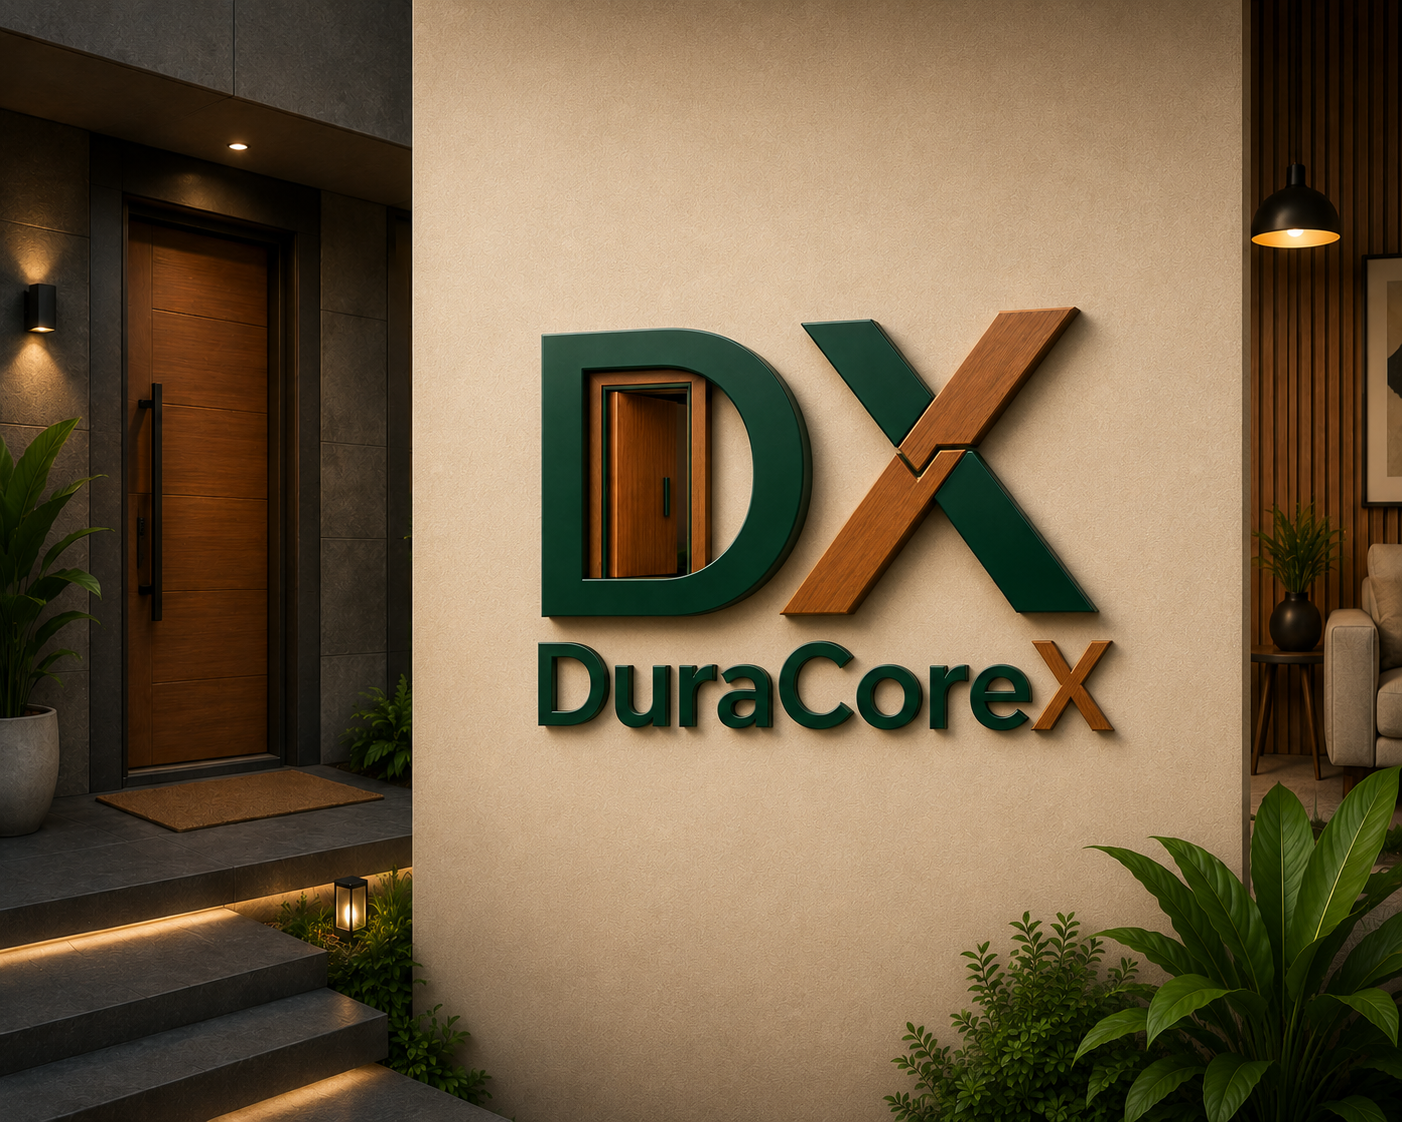
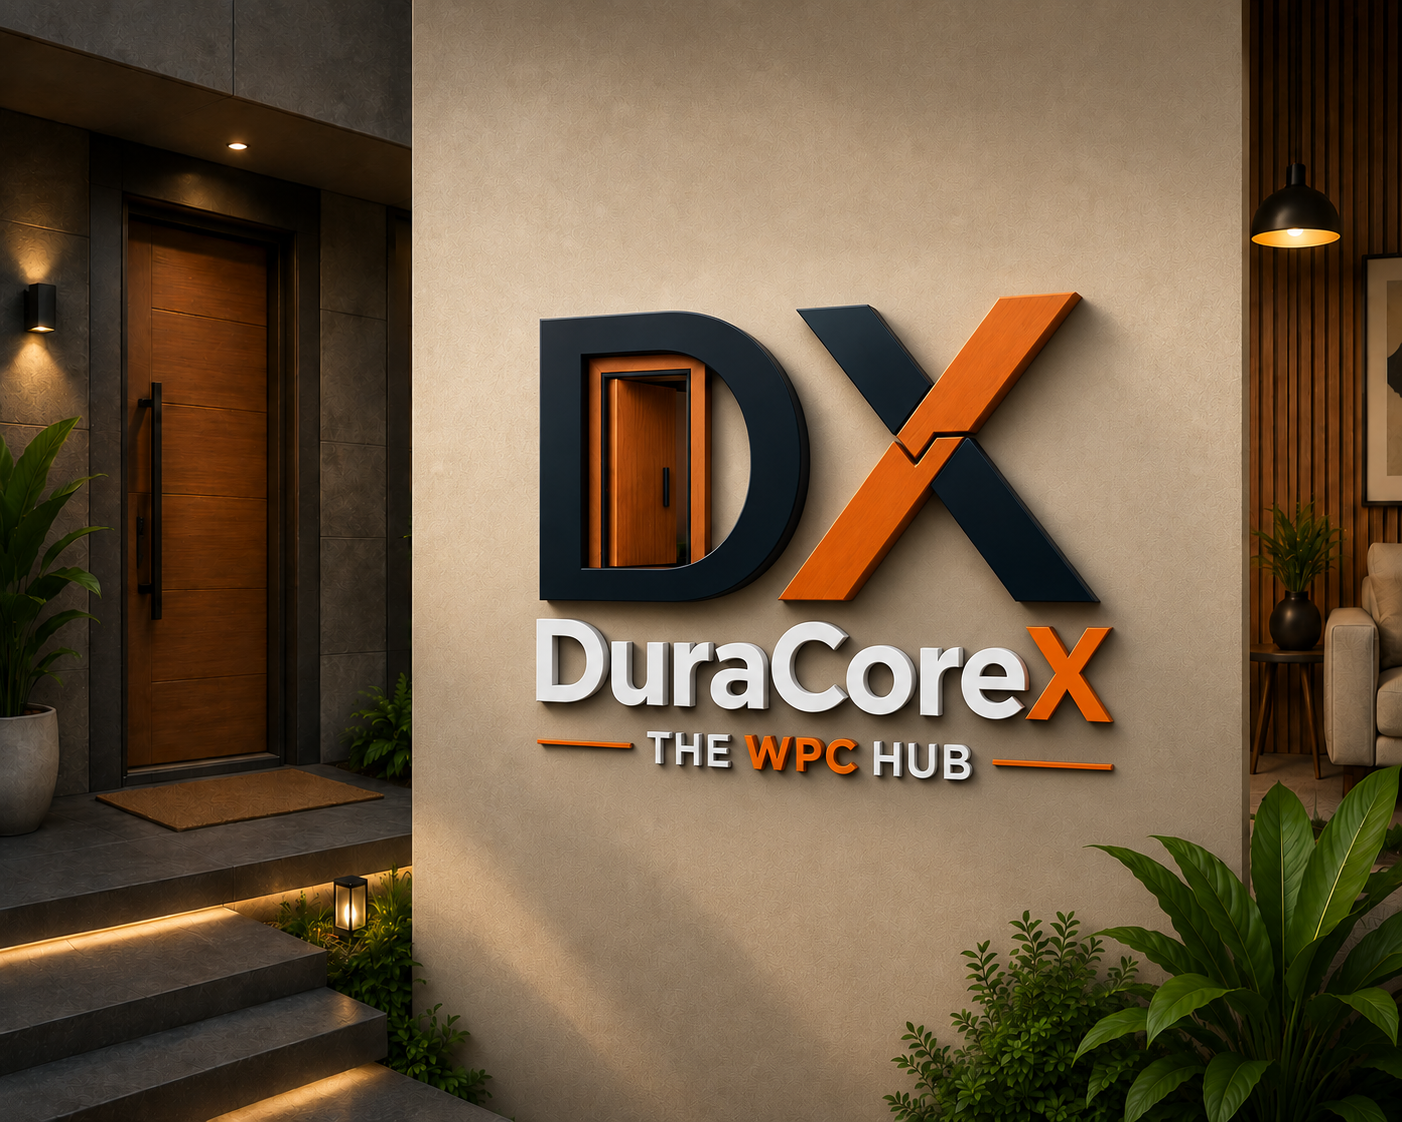
latest one

diff --git a/DuraCoreX.jsx b/DuraCoreX.jsx
@@ -172,9 +172,9 @@ function Navbar() {
         left: 0,
         right: 0,
         zIndex: 1000,
-        background: scrolled ? "rgba(255,255,255,0.98)" : "rgba(255,255,255,0.92)",
+        background: scrolled ? "rgba(18,22,18,0.97)" : "rgba(18,22,18,0.88)",
         backdropFilter: "blur(14px)",
-        boxShadow: scrolled ? "0 2px 16px rgba(0,0,0,0.1)" : "0 1px 8px rgba(0,0,0,0.08)",
+        boxShadow: scrolled ? "0 2px 16px rgba(0,0,0,0.4)" : "0 1px 8px rgba(0,0,0,0.2)",
         transition: "all 0.35s",
         padding: "0 5%",
       }}>
@@ -182,8 +182,14 @@ function Navbar() {
           <div style={{ display: "flex", alignItems: "center", gap: 8, cursor: "pointer" }} onClick={() => scrollTo("home")}>
             <DXLogo size={34} />
             <div>
-              <div style={{ color: "#1a4d2e", fontWeight: 800, fontSize: 16, letterSpacing: 0.5, lineHeight: 1 }}>DuraCoreX</div>
-              <div style={{ color: "#8B5E3C", fontSize: 8, letterSpacing: 1.5, textTransform: "uppercase" }}>The WPC Hub</div>
+              <div style={{ fontWeight: 800, fontSize: 16, letterSpacing: 0.5, lineHeight: 1.1 }}>
+                <span style={{ color: "#ffffff" }}>DuraCore</span><span style={{ color: "#E8720C" }}>X</span>
+              </div>
+              <div style={{ fontSize: 8, letterSpacing: 2, textTransform: "uppercase", color: "rgba(255,255,255,0.75)", display: "flex", alignItems: "center", gap: 4 }}>
+                <span style={{ color: "#E8720C", fontSize: 9 }}>—</span>
+                <span>The <span style={{ color: "#E8720C" }}>WPC</span> HUB</span>
+                <span style={{ color: "#E8720C", fontSize: 9 }}>—</span>
+              </div>
             </div>
           </div>
 
@@ -191,9 +197,9 @@ function Navbar() {
           <div style={{ display: "flex", gap: 28, alignItems: "center" }} className="dx-desktop-nav">
             {NAV_LINKS_SIMPLE.map((link) => (
               <button key={link} onClick={() => { setMenuOpen(false); scrollTo(link); }}
-                style={{ background: "none", border: "none", color: "#1a3a24", fontWeight: 600, fontSize: 13, cursor: "pointer", letterSpacing: 0.5, padding: "4px 0", borderBottom: "2px solid transparent", transition: "all 0.2s" }}
-                onMouseEnter={(e) => { e.target.style.borderBottomColor = "#8B5E3C"; e.target.style.color = "#1a4d2e"; }}
-                onMouseLeave={(e) => { e.target.style.borderBottomColor = "transparent"; e.target.style.color = "#1a3a24"; }}>
+                style={{ background: "none", border: "none", color: "rgba(255,255,255,0.85)", fontWeight: 600, fontSize: 13, cursor: "pointer", letterSpacing: 0.5, padding: "4px 0", borderBottom: "2px solid transparent", transition: "all 0.2s" }}
+                onMouseEnter={(e) => { e.target.style.borderBottomColor = "#E8720C"; e.target.style.color = "#fff"; }}
+                onMouseLeave={(e) => { e.target.style.borderBottomColor = "transparent"; e.target.style.color = "rgba(255,255,255,0.85)"; }}>
                 {link}
               </button>
             ))}
@@ -203,7 +209,7 @@ function Navbar() {
           <button onClick={() => setMenuOpen(!menuOpen)}
             style={{ background: "none", border: "none", cursor: "pointer", display: "none", flexDirection: "column", gap: 5 }}
             className="dx-hamburger">
-            {[0,1,2].map(i => <div key={i} style={{ width: 24, height: 2, background: "#1a4d2e", borderRadius: 2 }} />)}
+            {[0,1,2].map(i => <div key={i} style={{ width: 24, height: 2, background: "#ffffff", borderRadius: 2 }} />)}
           </button>
         </div>
 
@@ -289,8 +295,8 @@ function Hero() {
         style={{
           position: "absolute", top: 0, left: 0,
           width: "100%", height: "100%",
-          objectFit: "contain",
-          objectPosition: "right center",
+          objectFit: "cover",
+          objectPosition: "center center",
           pointerEvents: "none", userSelect: "none",
         }}
       />
@@ -349,56 +355,45 @@ function Hero() {
           </div>
         </div>
 
-        {/* Right — feature bullets */}
-        <div className="hero-card" style={{ display: "flex", justifyContent: "flex-end" }}>
-          <div style={{ borderRadius: 20, padding: 2, position: "relative" }}>
-          <div style={{
-            background: "transparent",
-            backdropFilter: "none",
-            WebkitBackdropFilter: "none",
-            borderRadius: 17,
-            padding: "28px 30px",
-            boxShadow: "none",
-            border: "1px solid rgba(255,255,255,0.3)",
-            position: "relative", zIndex: 1,
-          }}>
-            {/* Header */}
-            <div style={{ marginBottom: 18 }}>
-              <div style={{ color: "#8B5E3C", fontSize: 9, fontWeight: 700, letterSpacing: 2.5, textTransform: "uppercase", marginBottom: 4 }}>Build with Floresta WPC</div>
-              <div style={{ width: 32, height: 2, background: "linear-gradient(to right, #8B5E3C, transparent)", borderRadius: 2 }} />
-            </div>
-
-            {/* Bullets */}
+        {/* Right — feature icons list */}
+        <div className="hero-card" style={{ display: "flex", justifyContent: "flex-end", alignItems: "center" }}>
+          <div style={{ display: "flex", flexDirection: "column", gap: 9 }}>
             {[
-              "100% Genuine — 'Actual' WPC",
-              "European Technology",
-              "100% Waterproof & Moisture Proof",
-              "Termite & Borer Resistant",
-              "Fire Retardant Grade",
-              "Eco-Friendly & Sustainable",
-              "Carpenter Friendly",
-              "Screwable & Nailable",
-              "Router & CNC Friendly",
-              "High Screw Holding Capacity",
-              "Low Maintenance",
-              "No Harmful Chemicals",
-            ].map((item, i) => (
-              <div key={item} style={{ display: "flex", alignItems: "center", gap: 10, marginBottom: i < 11 ? 11 : 0 }}>
+              { d: "M20 6 9 17 4 12",                                                                              label: "100% Genuine — 'Actual' WPC",    hi: true },
+              { d: "M12 2a10 10 0 1 0 0 20A10 10 0 0 0 12 2zM12 8v4l3 3",                                         label: "European Technology",             hi: true },
+              { d: "M12 2C8 7 4 9 4 14a8 8 0 0 0 16 0c0-5-4-7-8-12z",                                            label: "100% Waterproof & Moisture Proof" },
+              { d: "M12 22s8-4 8-10V5l-8-3-8 3v7c0 6 8 10 8 10z",                                                 label: "Termite & Borer Resistant" },
+              { d: "M12 2c0 6-6 8-6 14a6 6 0 0 0 12 0c0-6-6-8-6-14z",                                            label: "Fire Retardant Grade" },
+              { d: "M21 10c0 7-9 13-9 13S3 17 3 10a9 9 0 0 1 18 0z",                                              label: "Eco-Friendly & Sustainable" },
+              { d: "M14.7 6.3a1 1 0 0 0 0 1.4l1.6 1.6a1 1 0 0 0 1.4 0l3.77-3.77a6 6 0 0 1-7.94 7.94l-6.91 6.91a2.12 2.12 0 0 1-3-3l6.91-6.91a6 6 0 0 1 7.94-7.94z", label: "Carpenter Friendly" },
+              { d: "M12 2v20M17 5H9.5a3.5 3.5 0 0 0 0 7h5a3.5 3.5 0 0 1 0 7H6",                                  label: "Screwable & Nailable" },
+              { d: "M4 4h16a2 2 0 0 1 2 2v10a2 2 0 0 1-2 2H4a2 2 0 0 1-2-2V6a2 2 0 0 1 2-2zM12 18v3M8 21h8",   label: "Router & CNC Friendly" },
+              { d: "M12 2a10 10 0 1 0 0 20A10 10 0 0 0 12 2zM12 6v6l4 2",                                         label: "High Screw Holding Capacity" },
+              { d: "M12 20h9M16.5 3.5a2.121 2.121 0 0 1 3 3L7 19l-4 1 1-4z",                                      label: "Low Maintenance" },
+              { d: "M9 3H5a2 2 0 0 0-2 2v14a2 2 0 0 0 2 2h14a2 2 0 0 0 2-2V9l-6-6zM9 3v6h6",                    label: "No Harmful Chemicals" },
+            ].map((item) => (
+              <div key={item.label} style={{ display: "flex", alignItems: "center", gap: 12 }}>
                 <div style={{
-                  width: 6, height: 6, borderRadius: "50%",
-                  background: i < 2 ? "#c9956d" : "#8B5E3C",
-                  flexShrink: 0,
-                  boxShadow: i < 2 ? "0 0 6px rgba(201,149,109,0.6)" : "none",
-                }} />
+                  width: 36, height: 36, borderRadius: "50%", flexShrink: 0,
+                  border: `1.5px solid ${item.hi ? "rgba(201,149,109,0.9)" : "rgba(255,255,255,0.4)"}`,
+                  background: item.hi ? "rgba(139,94,60,0.28)" : "rgba(0,0,0,0.25)",
+                  display: "flex", alignItems: "center", justifyContent: "center",
+                }}>
+                  <svg width="15" height="15" viewBox="0 0 24 24" fill="none"
+                    stroke={item.hi ? "#f0c898" : "rgba(255,255,255,0.9)"}
+                    strokeWidth="2" strokeLinecap="round" strokeLinejoin="round">
+                    <path d={item.d} />
+                  </svg>
+                </div>
                 <span style={{
-                  color: i < 2 ? "#f0d5bc" : "#d4ead9",
-                  fontSize: 12,
-                  fontWeight: i < 2 ? 600 : 500,
-                }}>{item}</span>
+                  color: item.hi ? "#f0d5bc" : "rgba(255,255,255,0.9)",
+                  fontSize: 12.5,
+                  fontWeight: item.hi ? 700 : 500,
+                  lineHeight: 1.3,
+                }}>{item.label}</span>
               </div>
             ))}
           </div>
-          </div>{/* end running border wrapper */}
         </div>
       </div>
 
@@ -1152,8 +1147,12 @@ function Footer() {
         <div style={{ display: "flex", alignItems: "center", gap: 12 }}>
           <DXLogo size={36} />
           <div>
-            <div style={{ color: "#fff", fontWeight: 800, fontSize: 16 }}>DuraCoreX</div>
-            <div style={{ color: "#a8d5b5", fontSize: 9, letterSpacing: 2 }}>THE WPC HUB</div>
+            <div style={{ fontWeight: 800, fontSize: 16 }}><span style={{ color: "#fff" }}>DuraCore</span><span style={{ color: "#E8720C" }}>X</span></div>
+            <div style={{ fontSize: 8, letterSpacing: 2, textTransform: "uppercase", color: "rgba(255,255,255,0.75)", display: "flex", alignItems: "center", gap: 4 }}>
+                <span style={{ color: "#E8720C", fontSize: 9 }}>—</span>
+                <span>The <span style={{ color: "#E8720C" }}>WPC</span> HUB</span>
+                <span style={{ color: "#E8720C", fontSize: 9 }}>—</span>
+              </div>
           </div>
         </div>
         <div style={{ fontSize: 13, color: "#7ab08d" }}>© 2026 DuraCoreX — The WPC Hub. All rights reserved.</div>

diff --git a/ProductsPage.jsx b/ProductsPage.jsx
@@ -89,8 +89,12 @@ export default function ProductsPage() {
           <div style={{ display: "flex", alignItems: "center", gap: 10, cursor: "pointer" }} onClick={() => navigate("/")}>
             <DXLogo size={34} />
             <div>
-              <div style={{ color: "#1a4d2e", fontWeight: 800, fontSize: 16, letterSpacing: 0.5, lineHeight: 1 }}>DuraCoreX</div>
-              <div style={{ color: "#8B5E3C", fontSize: 8, letterSpacing: 1.5, textTransform: "uppercase" }}>The WPC Hub</div>
+              <div style={{ fontWeight: 800, fontSize: 16, letterSpacing: 0.5, lineHeight: 1 }}>
+                <span style={{ color: "#1a1a2e" }}>DuraCore</span><span style={{ color: "#E8720C" }}>X</span>
+              </div>
+              <div style={{ fontSize: 8, letterSpacing: 1.5, textTransform: "uppercase", color: "#1a1a2e" }}>
+                The <span style={{ color: "#E8720C" }}>WPC</span> Hub
+              </div>
             </div>
           </div>
           <button onClick={() => navigate("/")}
